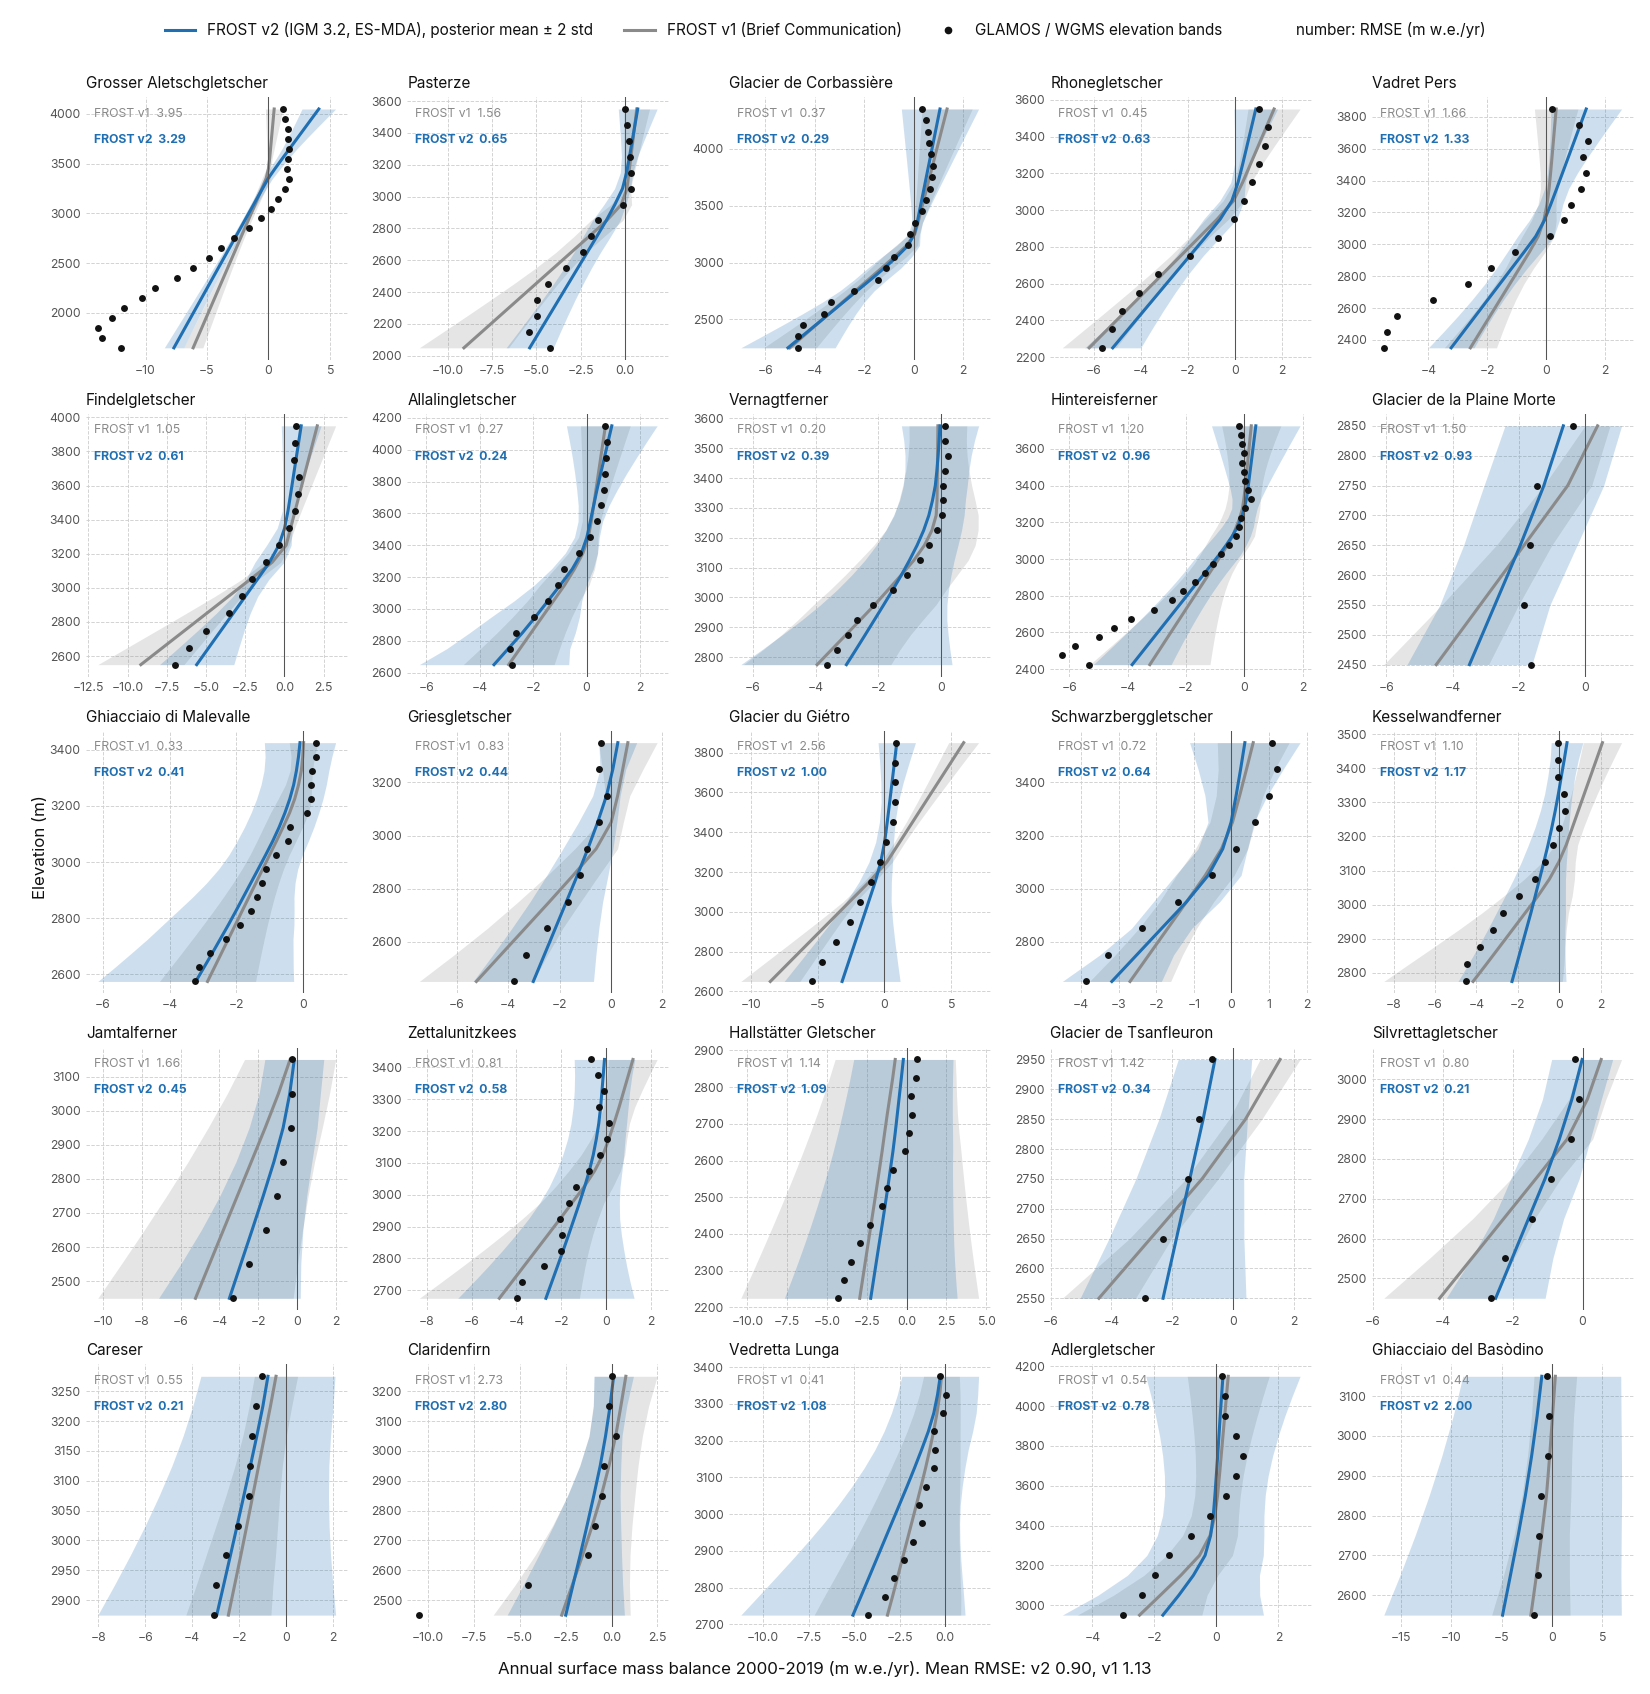
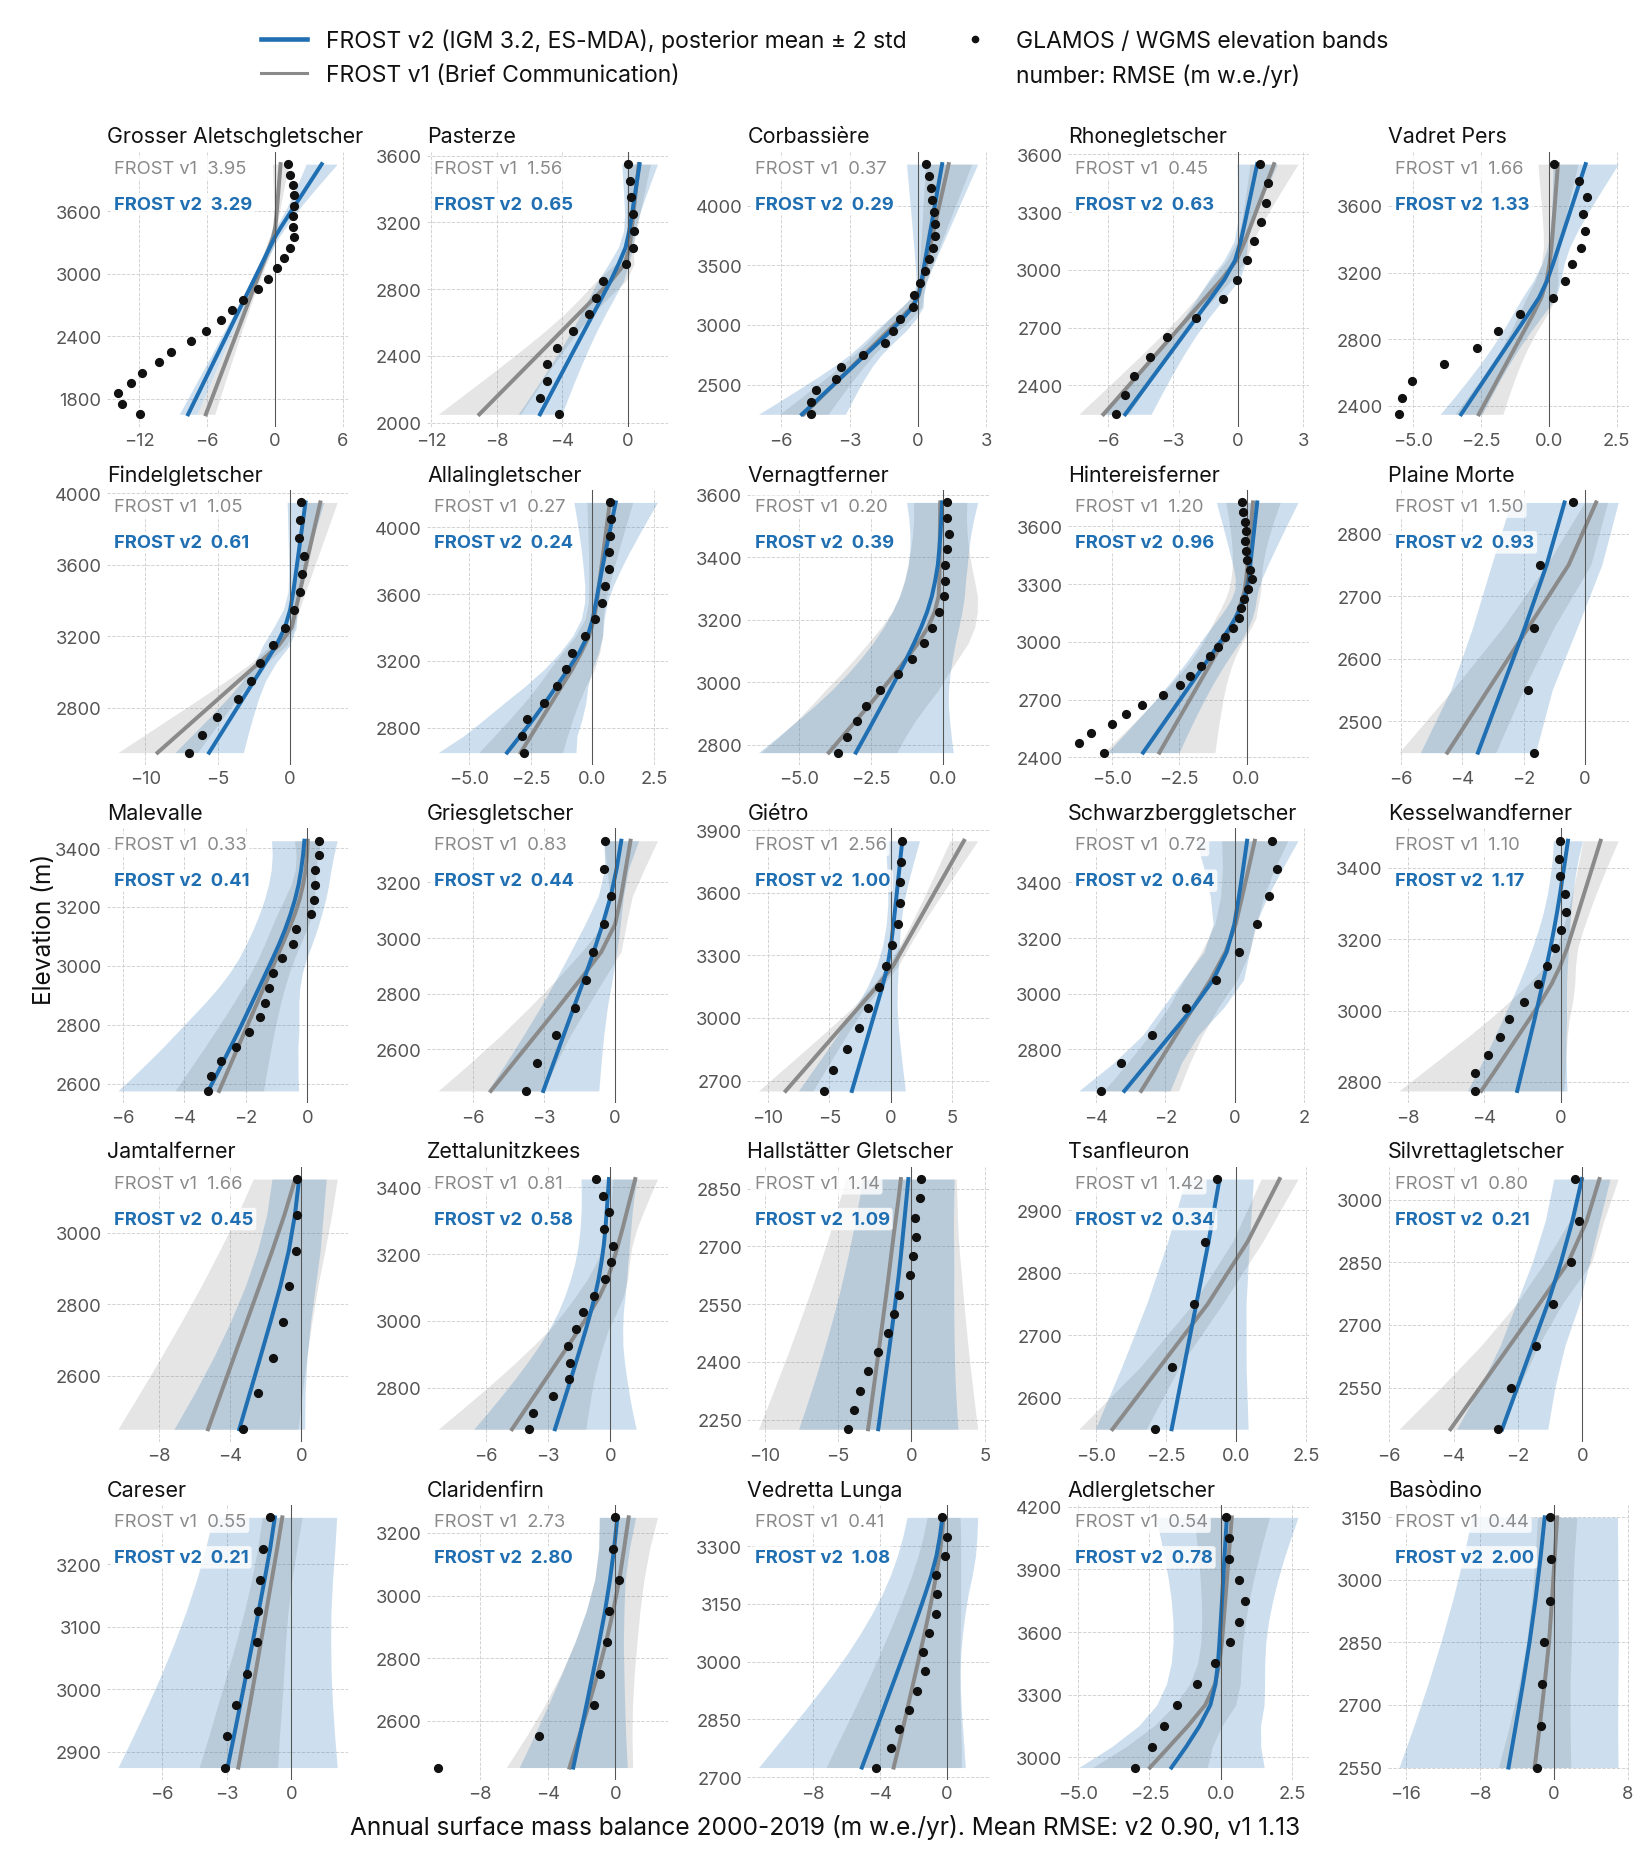
README profile figure: larger text, short glacier names, label backgrounds

Changed region(s): [[0.0, 0.0, 0.9891, 1.0]]

diff --git a/experiments/central_europe_combined_retrain/readme_profiles.py b/experiments/central_europe_combined_retrain/readme_profiles.py
@@ -36,6 +36,18 @@ DARK = dict(bg='#0A0A0A', fg='#EDEDED', muted='#C8C8C8', grid='#4A4A4A',
             new=plot_style.COLORS['blue'], submitted='#9A9A9A')
 
 
+
+def short_name(name):
+    """Glacier name without the generic prefix (Glacier de la Plaine Morte ->
+    Plaine Morte), as in most glacier figures."""
+    name = name.replace('_', ' ')
+    for prefix in ('Glacier de la ', 'Glacier de ', 'Glacier du ', 'Ghiacciaio di ',
+                   'Ghiacciaio del '):
+        if name.startswith(prefix):
+            return name[len(prefix):]
+    return name
+
+
 def draw(profiles, curves, c, path):
     plt.rcdefaults()
     plt.rcParams.update({k: v for k, v in plot_style.DARK_THEME.items()
@@ -52,7 +64,7 @@ def draw(profiles, curves, c, path):
     glaciers = list(dict.fromkeys(profiles.glacier))
     cols = 5
     rows = int(np.ceil(len(glaciers) / cols))
-    fig, axes = plt.subplots(rows, cols, figsize=(15, 2.9 * rows + 0.9), squeeze=False)
+    fig, axes = plt.subplots(rows, cols, figsize=(15, 3.1 * rows + 1.4), squeeze=False)
     for ax, name in zip(axes.flat, glaciers):
         group = profiles[profiles.glacier == name]
         rgi_id = group.rgi_id.iloc[0]
@@ -62,32 +74,35 @@ def draw(profiles, curves, c, path):
             z, mean, std, reference = curves[(rgi_id, run)]
             ax.fill_betweenx(z, mean - 2 * std, mean + 2 * std, color=c[run],
                              alpha=0.22, lw=0)
-            ax.plot(mean, z, color=c[run], lw=2)
+            ax.plot(mean, z, color=c[run], lw=2.6)
             rmse = group[group.run == run].rmse.iloc[0]
-            ax.text(0.03, 0.96 - 0.1 * (run == 'new'), f'{LABELS[run]}  {rmse:.2f}',
-                    transform=ax.transAxes, fontsize=8, va='top', color=c[run],
-                    weight='bold' if run == 'new' else 'normal')
-        ax.plot(reference, z, 'o', ms=3.5, color=c['fg'], zorder=4)
+            ax.text(0.03, 0.97 - 0.13 * (run == 'new'), f'{LABELS[run]}  {rmse:.2f}',
+                    transform=ax.transAxes, fontsize=12, va='top', color=c[run],
+                    weight='bold' if run == 'new' else 'normal', zorder=5,
+                    bbox=dict(boxstyle='round,pad=0.15', fc=c['bg'], ec='none', alpha=0.8))
+        ax.plot(reference, z, 'o', ms=5, color=c['fg'], zorder=4)
         ax.axvline(0, color=c['muted'], lw=0.7)
-        ax.set_title(name.replace('_', ' ')[:28], fontsize=10, color=c['fg'], loc='left')
-        ax.tick_params(labelsize=8)
+        ax.set_title(short_name(name), fontsize=14, color=c['fg'], loc='left')
+        ax.xaxis.set_major_locator(plt.MaxNLocator(4))
+        ax.yaxis.set_major_locator(plt.MaxNLocator(5))
+        ax.tick_params(labelsize=12)
     for ax in axes.flat[len(glaciers):]:
         ax.axis('off')
-    handles = [plt.Line2D([], [], color=c['new'], lw=2,
+    handles = [plt.Line2D([], [], color=c["new"], lw=3,
                           label='FROST v2 (IGM 3.2, ES-MDA), posterior mean ± 2 std'),
                plt.Line2D([], [], color=c['submitted'], lw=2,
                           label='FROST v1 (Brief Communication)'),
                plt.Line2D([], [], color=c['fg'], marker='o', ls='', ms=4,
                           label='GLAMOS / WGMS elevation bands'),
                plt.Line2D([], [], color='none', label='number: RMSE (m w.e./yr)')]
-    fig.legend(handles=handles, loc='upper center', ncol=4, fontsize=10,
+    fig.legend(handles=handles, loc='upper center', ncol=2, fontsize=15,
                bbox_to_anchor=(0.5, 0.995), labelcolor=c['fg'])
     mean_rmse = profiles.groupby('run').rmse.mean()
     fig.supxlabel('Annual surface mass balance 2000-2019 (m w.e./yr). Mean RMSE: '
                   f'v2 {mean_rmse["new"]:.2f}, v1 {mean_rmse["submitted"]:.2f}',
-                  fontsize=11, color=c['fg'])
-    fig.supylabel('Elevation (m)', fontsize=11, color=c['fg'])
-    fig.tight_layout(rect=(0, 0, 1, 0.965))
+                  fontsize=16, color=c["fg"])
+    fig.supylabel('Elevation (m)', fontsize=16, color=c['fg'])
+    fig.tight_layout(rect=(0, 0, 1, 0.94))
     fig.savefig(path, dpi=110)
     plt.close(fig)
     print(f'Wrote {path}')
